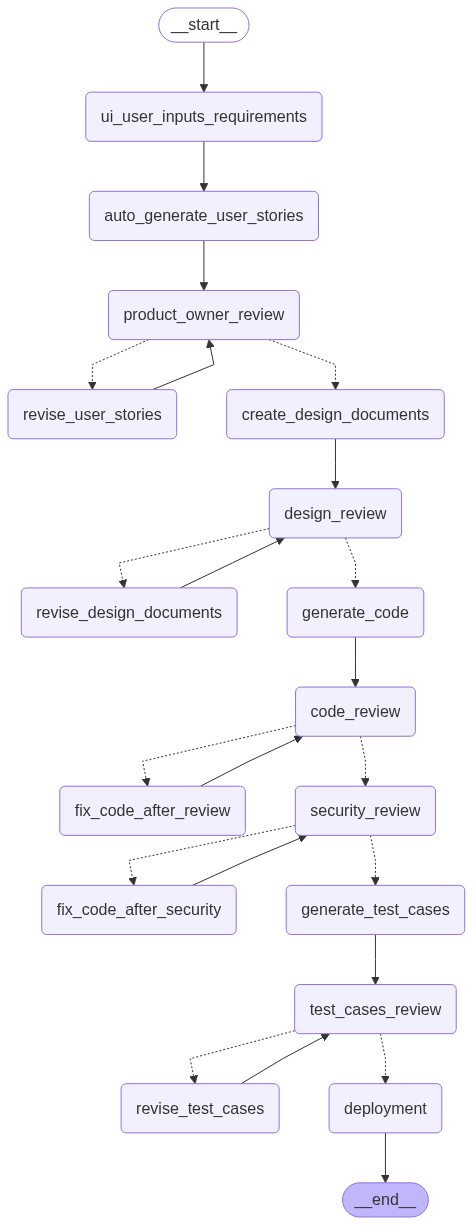
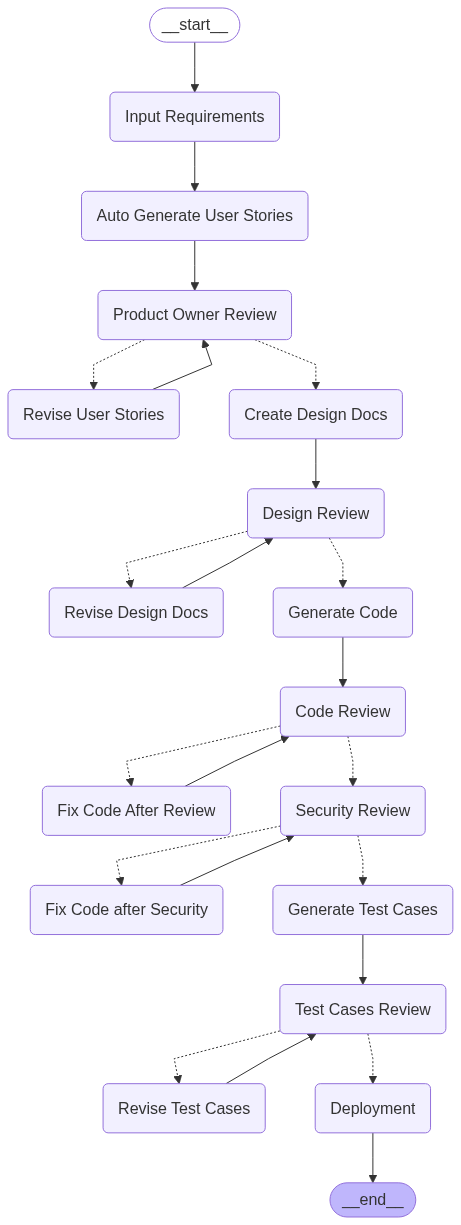
Update workflow nodes

diff --git a/workflow/dynamic_interrupt_workflow.py b/workflow/dynamic_interrupt_workflow.py
@@ -73,113 +73,113 @@ def create_dynamic_interrupt_workflow():
     # ===== ADD ALL NODES TO THE GRAPH =====
     
     # Core workflow nodes
-    workflow.add_node("ui_user_inputs_requirements", ui_user_inputs_requirements)
-    workflow.add_node("auto_generate_user_stories", auto_generate_user_stories)
+    workflow.add_node("Input Requirements", ui_user_inputs_requirements)
+    workflow.add_node("Auto Generate User Stories", auto_generate_user_stories)
     
     # Product Owner Review cycle
-    workflow.add_node("product_owner_review", product_owner_review_dynamic)
-    workflow.add_node("revise_user_stories", revise_user_stories_dynamic)
+    workflow.add_node("Product Owner Review", product_owner_review_dynamic)
+    workflow.add_node("Revise User Stories", revise_user_stories_dynamic)
     
     # Design phase
-    workflow.add_node("create_design_documents", create_design_documents)
-    workflow.add_node("design_review", design_review_dynamic)
-    workflow.add_node("revise_design_documents", revise_design_documents_dynamic)
+    workflow.add_node("Create Design Docs", create_design_documents)
+    workflow.add_node("Design Review", design_review_dynamic)
+    workflow.add_node("Revise Design Docs", revise_design_documents_dynamic)
     
     # Code generation and review cycle
-    workflow.add_node("generate_code", generate_code)
-    workflow.add_node("code_review", code_review_dynamic)
-    workflow.add_node("fix_code_after_review", fix_code_after_review_dynamic)
+    workflow.add_node("Generate Code", generate_code)
+    workflow.add_node("Code Review", code_review_dynamic)
+    workflow.add_node("Fix Code After Review", fix_code_after_review_dynamic)
     
     # Security review cycle
-    workflow.add_node("security_review", security_review_dynamic)
-    workflow.add_node("fix_code_after_security", fix_code_after_security_dynamic)
+    workflow.add_node("Security Review", security_review_dynamic)
+    workflow.add_node("Fix Code after Security", fix_code_after_security_dynamic)
     
     # Test cases cycle
-    workflow.add_node("generate_test_cases", generate_test_cases)
-    workflow.add_node("test_cases_review", test_cases_review_dynamic)
-    workflow.add_node("revise_test_cases", revise_test_cases_dynamic)
+    workflow.add_node("Generate Test Cases", generate_test_cases)
+    workflow.add_node("Test Cases Review", test_cases_review_dynamic)
+    workflow.add_node("Revise Test Cases", revise_test_cases_dynamic)
     
     # Deployment
-    workflow.add_node("deployment", deployment)
+    workflow.add_node("Deployment", deployment)
     
     # ===== SET ENTRY POINT =====
-    workflow.set_entry_point("ui_user_inputs_requirements")
+    workflow.set_entry_point("Input Requirements")
     
     # ===== DEFINE WORKFLOW EDGES =====
     
     # Initial flow: Requirements → User Stories → PO Review
-    workflow.add_edge("ui_user_inputs_requirements", "auto_generate_user_stories")
-    workflow.add_edge("auto_generate_user_stories", "product_owner_review")
+    workflow.add_edge("Input Requirements", "Auto Generate User Stories")
+    workflow.add_edge("Auto Generate User Stories", "Product Owner Review")
     
     # ===== PRODUCT OWNER REVIEW CYCLE =====
     workflow.add_conditional_edges(
-        "product_owner_review",
+        "Product Owner Review",
         route_after_po_review_dynamic,
         {
-            "create_design_documents": "create_design_documents",  # Approved → Design phase
-            "revise_user_stories": "revise_user_stories"  # Needs revision
+            "Create Design Docs": "Create Design Docs",  # Approved → Design phase
+            "Revise User Stories": "Revise User Stories"  # Needs revision
         }
     )
     # Route back to PO review after user story revision
-    workflow.add_edge("revise_user_stories", "product_owner_review")
+    workflow.add_edge("Revise User Stories", "Product Owner Review")
     
     # ===== DESIGN PHASE =====
-    workflow.add_edge("create_design_documents", "design_review")
+    workflow.add_edge("Create Design Docs", "Design Review")
     
     # ===== DESIGN REVIEW CYCLE =====
     workflow.add_conditional_edges(
-        "design_review",
+        "Design Review",
         route_after_design_review_dynamic,
         {
-            "generate_code": "generate_code",  # Approved → Code generation
-            "revise_design_documents": "revise_design_documents"  # Needs revision
+            "Generate Code": "Generate Code",  # Approved → Code generation
+            "Revise Design Docs": "Revise Design Docs"  # Needs revision
         }
     )
     # Route back to design review after design revision
-    workflow.add_edge("revise_design_documents", "design_review")
+    workflow.add_edge("Revise Design Docs", "Design Review")
     
     # ===== CODE GENERATION AND REVIEW CYCLE =====
-    workflow.add_edge("generate_code", "code_review")
+    workflow.add_edge("Generate Code", "Code Review")
     
     workflow.add_conditional_edges(
-        "code_review",
+        "Code Review",
         route_after_code_review_dynamic,
         {
-            "security_review": "security_review",  # Approved → Security review
-            "fix_code_after_review": "fix_code_after_review"  # Needs fixes
+            "Security Review": "Security Review",  # Approved → Security review
+            "Fix Code After Review": "Fix Code After Review"  # Needs fixes
         }
     )
     # Route back to code review after code fixes
-    workflow.add_edge("fix_code_after_review", "code_review")
+    workflow.add_edge("Fix Code After Review", "Code Review")
     
     # ===== SECURITY REVIEW CYCLE =====
     workflow.add_conditional_edges(
-        "security_review",
+        "Security Review",
         route_after_security_review_dynamic,
         {
-            "generate_test_cases": "generate_test_cases",  # Approved → Test generation
-            "fix_code_after_security": "fix_code_after_security"  # Needs security fixes
+            "Generate Test Cases": "Generate Test Cases",  # Approved → Test generation
+            "Fix Code after Security": "Fix Code after Security"  # Needs security fixes
         }
     )
     # Route back to security review after security fixes
-    workflow.add_edge("fix_code_after_security", "security_review")
+    workflow.add_edge("Fix Code after Security", "Security Review")
     
     # ===== TEST CASES CYCLE =====
-    workflow.add_edge("generate_test_cases", "test_cases_review")
+    workflow.add_edge("Generate Test Cases", "Test Cases Review")
     
     workflow.add_conditional_edges(
-        "test_cases_review",
+        "Test Cases Review",
         route_after_test_review_dynamic,
         {
-            "deployment": "deployment",  # Approved → Deployment
-            "revise_test_cases": "revise_test_cases"  # Needs test improvements
+            "Deployment": "Deployment",  # Approved → Deployment
+            "Revise Test Cases": "Revise Test Cases"  # Needs test improvements
         }
     )
     # Route back to test review after test revision
-    workflow.add_edge("revise_test_cases", "test_cases_review")
+    workflow.add_edge("Revise Test Cases", "Test Cases Review")
     
     # ===== DEPLOYMENT (END) =====
-    workflow.add_edge("deployment", END)
+    workflow.add_edge("Deployment", END)
     
     # ===== COMPILE WORKFLOW =====
     compiled_workflow = workflow.compile(

diff --git a/utils/visualization_utils.py b/utils/visualization_utils.py
@@ -40,7 +40,7 @@ class WorkflowVisualizer:
             
         try:
             # Get Mermaid code from LangGraph
-            mermaid_code = self.workflow.get_graph().draw_mermaid()
+            mermaid_code = self.workflow.get_graph(xray=True).draw_mermaid()
             
             print("\n" + "="*80)
             print("🔄 ACTUAL WORKFLOW MERMAID DIAGRAM")
